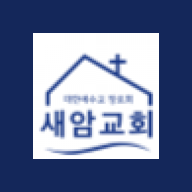
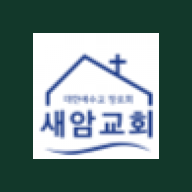
색을 초록 톤으로, 진주빛(펄) 카드와 빛이 스치는 펄 효과

diff --git a/js/app.js b/js/app.js
@@ -44,11 +44,11 @@
         <div class="cap"><span style="display:flex;align-items:center;gap:10px"><img src="images/logo.png" alt="" width="40" height="40" style="border-radius:10px;background:#fff;padding:3px"><span class="serif" style="font-size:24px;font-weight:700">${esc(c.name)}</span></span>
           <span style="font-size:13px;opacity:.9">${esc(c.motto)}</span></div></div>
       <div class="grid4" style="grid-template-columns:repeat(5,minmax(0,1fr));gap:6px">
-        <a class="quick" href="#/worship"><span class="ic">${ico('clock', '#1F3A78', 20)}</span>예배 시간</a>
-        <a class="quick" href="#/worship"><span class="ic">${ico('pin', '#1F3A78', 20)}</span>오시는 길</a>
-        <a class="quick" href="tel:${c.phone.replace(/-/g, '')}"><span class="ic">${ico('phone', '#1F3A78', 20)}</span>전화하기</a>
-        <a class="quick" href="#/give"><span class="ic">${ico('gift', '#1F3A78', 20)}</span>헌금</a>
-        <button class="quick" data-invite style="font-family:inherit"><span class="ic">${ico('share', '#1F3A78', 20)}</span>초대하기</button>
+        <a class="quick" href="#/worship"><span class="ic">${ico('clock', '#1F5A3E', 20)}</span>예배 시간</a>
+        <a class="quick" href="#/worship"><span class="ic">${ico('pin', '#1F5A3E', 20)}</span>오시는 길</a>
+        <a class="quick" href="tel:${c.phone.replace(/-/g, '')}"><span class="ic">${ico('phone', '#1F5A3E', 20)}</span>전화하기</a>
+        <a class="quick" href="#/give"><span class="ic">${ico('gift', '#1F5A3E', 20)}</span>헌금</a>
+        <button class="quick" data-invite style="font-family:inherit"><span class="ic">${ico('share', '#1F5A3E', 20)}</span>초대하기</button>
       </div>
       ${s ? `<section style="display:flex;flex-direction:column;gap:10px">
         <div style="display:flex;justify-content:space-between;align-items:baseline"><h2>이주의 설교</h2><a href="#/sermons" class="muted" style="font-size:13px">지난 설교 ›</a></div>
@@ -61,7 +61,7 @@
           <span style="flex:1;display:flex;flex-direction:column;gap:3px"><span style="font-weight:700;color:var(--navy-deep)">${esc(e.title)}</span><span class="muted" style="font-size:12px;line-height:1.5">${esc(e.desc)}</span></span>${ico('next', '#4A5263', 16)}</a>`).join('')}
       </section>` : ''}
       <a class="card" href="https://saechang888-code.github.io/berith/" target="_blank" rel="noopener" style="display:flex;gap:14px;align-items:center;background:var(--navy-soft);border-color:transparent">
-        ${ico('book', '#1F3A78', 26)}<span style="flex:1;display:flex;flex-direction:column;gap:3px"><span style="font-weight:700;color:var(--navy-deep)">베리트365 — 매일 말씀과 묵상</span><span class="muted" style="font-size:12px">오늘의 말씀 영상 · 성경 · 나의 묵상 기록</span></span>${ico('ext', '#1F3A78', 16)}</a>
+        ${ico('book', '#1F5A3E', 26)}<span style="flex:1;display:flex;flex-direction:column;gap:3px"><span style="font-weight:700;color:var(--navy-deep)">베리트365 — 매일 말씀과 묵상</span><span class="muted" style="font-size:12px">오늘의 말씀 영상 · 성경 · 나의 묵상 기록</span></span>${ico('ext', '#1F5A3E', 16)}</a>
     </main>${tabbar('home')}`;
   }
 
@@ -77,7 +77,7 @@
         <input type="text" id="sq" value="${esc(q)}" placeholder="설교 제목으로 찾기" style="border:0;padding:0;background:none;height:44px"></label>
       <div class="list">${list.map(s => `<a href="#/sermons" data-cur="${esc(s.video)}" data-title="${esc(s.title)}"><img class="thumb" src="${yt(s.video)}" alt="" loading="lazy">
           <span class="grow"><span style="font-weight:700;color:var(--navy-deep);font-size:15px">${esc(s.title)}</span><span class="sub">${dateKo(s.date)} · ${esc(s.preacher)}</span></span></a>`).join('') || '<p class="muted">찾는 설교가 없습니다.</p>'}</div>
-      <a class="btn btn-line" href="https://www.youtube.com/@seamvision" target="_blank" rel="noopener">유튜브에서 모든 영상 보기 ${ico('ext', '#14275A', 16)}</a>
+      <a class="btn btn-line" href="https://www.youtube.com/@seamvision" target="_blank" rel="noopener">유튜브에서 모든 영상 보기 ${ico('ext', '#12382A', 16)}</a>
     </main>${tabbar('sermons')}`;
   }
 
@@ -89,14 +89,14 @@
       <div class="card" style="padding:6px 18px"><div class="list">${c.worship.map(w => `<div class="row"><span class="grow"><span style="font-weight:700;color:var(--navy-deep)">${esc(w.name)}</span>${w.note ? `<span class="sub">${esc(w.note)}</span>` : ''}</span><span class="serif" style="color:var(--gold-text);font-weight:700">${esc(w.time)}</span></div>`).join('')}</div></div>
       <section style="display:flex;flex-direction:column;gap:10px"><h2>온라인으로 함께하기</h2>
         <div class="grid2">
-          <a class="card" href="https://www.youtube.com/@seamvision" target="_blank" rel="noopener" style="display:flex;flex-direction:column;gap:6px">${ico('play', '#1F3A78')}<b style="color:var(--navy-deep)">주일 설교 영상</b><span class="muted" style="font-size:12px">유튜브 [새암교회]비전센터</span></a>
-          <a class="card" href="https://saechang888-code.github.io/berith/" target="_blank" rel="noopener" style="display:flex;flex-direction:column;gap:6px">${ico('book', '#1F3A78')}<b style="color:var(--navy-deep)">베리트365</b><span class="muted" style="font-size:12px">매일 말씀 묵상</span></a>
+          <a class="card" href="https://www.youtube.com/@seamvision" target="_blank" rel="noopener" style="display:flex;flex-direction:column;gap:6px">${ico('play', '#1F5A3E')}<b style="color:var(--navy-deep)">주일 설교 영상</b><span class="muted" style="font-size:12px">유튜브 [새암교회]비전센터</span></a>
+          <a class="card" href="https://saechang888-code.github.io/berith/" target="_blank" rel="noopener" style="display:flex;flex-direction:column;gap:6px">${ico('book', '#1F5A3E')}<b style="color:var(--navy-deep)">베리트365</b><span class="muted" style="font-size:12px">매일 말씀 묵상</span></a>
         </div></section>
       <section style="display:flex;flex-direction:column;gap:10px"><h2>오시는 길</h2>
         <img src="images/vision-center.jpg" alt="새암교회 비전센터 전경" style="border-radius:16px;aspect-ratio:16/9;object-fit:cover;width:100%">
         <div class="card" style="display:flex;flex-direction:column;gap:8px"><span style="font-weight:700;color:var(--navy-deep)">${esc(c.address)}</span><span class="muted" style="font-size:13px">전화 ${esc(c.phone)}</span></div>
         <div class="grid2"><a class="btn btn-navy" href="${esc(c.maps.naver)}" target="_blank" rel="noopener">네이버 지도</a><a class="btn btn-line" href="${esc(c.maps.kakao)}" target="_blank" rel="noopener">카카오맵</a></div>
-        <a class="btn btn-line" href="tel:${c.phone.replace(/-/g, '')}">${ico('phone', '#14275A', 18)}교회로 전화하기</a>
+        <a class="btn btn-line" href="tel:${c.phone.replace(/-/g, '')}">${ico('phone', '#12382A', 18)}교회로 전화하기</a>
       </section>
     </main>${tabbar('worship')}`;
   }
@@ -104,7 +104,7 @@
   // ---------- 헌금 안내 (계좌 이체) ----------
   function offeringCard() {
     const o = D.church && D.church.offering; if (!o) return '';
-    return `<section id="offering" class="card" style="display:flex;flex-direction:column;gap:12px;background:var(--navy-deep);border-color:var(--navy-deep);color:#fff">
+    return `<section id="offering" class="card pearl-dark" style="display:flex;flex-direction:column;gap:12px;color:#fff">
       <span class="eyebrow" style="color:#E9C97A">OFFERING</span>
       <b class="serif" style="font-size:19px">헌금 안내</b>
       <span style="font-size:13px;opacity:.85;line-height:1.6">각각 그 마음에 정한 대로 할 것이요 인색함으로나 억지로 하지 말지니 하나님은 즐겨 내는 자를 사랑하시느니라 (고후 9:7)</span>
@@ -133,7 +133,7 @@
         <span class="muted" style="font-size:12px;line-height:1.6">'교회에 보내기'를 누르면 문자·카카오톡 보내기 창이 열려요. 받는 사람에 교회(${esc(D.church ? D.church.phone : '')})나 담당 사역자를 고르시면 됩니다. 곧 앱 안에서 교회로 바로 전해지도록 바꿀 예정이에요.</span>
       </div>
       ${offeringCard()}
-      <div class="card" style="display:flex;gap:14px;align-items:center">${ico('share', '#1F3A78', 26)}<span style="flex:1;display:flex;flex-direction:column;gap:3px"><b style="color:var(--navy-deep)">친구·가족 초대하기</b><span class="muted" style="font-size:12px">새암교회 앱을 소중한 사람에게 보내 보세요.</span></span><button class="chip on" data-invite>보내기</button></div>
+      <div class="card" style="display:flex;gap:14px;align-items:center">${ico('share', '#1F5A3E', 26)}<span style="flex:1;display:flex;flex-direction:column;gap:3px"><b style="color:var(--navy-deep)">친구·가족 초대하기</b><span class="muted" style="font-size:12px">새암교회 앱을 소중한 사람에게 보내 보세요.</span></span><button class="chip on" data-invite>보내기</button></div>
     </main>${tabbar('together')}`;
   }
 
@@ -142,7 +142,7 @@
     const c = D.church; if (!c) return `<main></main>${tabbar('about')}`;
     return `<main>
       <div style="display:flex;flex-direction:column;gap:4px"><span class="eyebrow">ABOUT</span><h1>교회 소개</h1><span class="muted" style="font-size:13px">${esc(c.denom)} ${esc(c.name)}</span></div>
-      ${c.meaning ? `<section style="display:flex;flex-direction:column;gap:12px;padding:22px 20px;border-radius:20px;background:var(--navy-deep);color:#fff">
+      ${c.meaning ? `<section class="pearl-dark" style="display:flex;flex-direction:column;gap:12px;padding:22px 20px;border-radius:20px;color:#fff">
         <span class="eyebrow" style="color:#E9C97A">OUR NAME</span>
         <span class="serif" style="font-size:22px;font-weight:700;line-height:1.4">SEAM, 새암<br><span style="font-size:15px;font-weight:400;opacity:.85">이름에 담긴 뜻</span></span>
         ${c.meaning.map(m => `<div style="display:flex;flex-direction:column;gap:6px;padding-top:12px;border-top:1px solid rgba(255,255,255,.15)">

diff --git a/css/app.css b/css/app.css
@@ -1,6 +1,6 @@
 :root{
-  --navy:#1F3A78; --navy-deep:#14275A; --navy-soft:#E9EEF8; --gold:#B8862B; --gold-text:#8A6216;
-  --cream:#FBF8F2; --paper:#FFFFFF; --ink:#1E2430; --ink-soft:#4A5263; --line:#E4DFD4;
+  --navy:#1F5A3E; --navy-deep:#12382A; --navy-soft:#E3F0E8; --gold:#B8862B; --gold-text:#8A6216;
+  --cream:#F6F8F3; --paper:#FFFFFF; --ink:#1E2430; --ink-soft:#4A5263; --line:#E4DFD4;
   --serif:'Noto Serif KR',serif; --sans:'Noto Sans KR',sans-serif;
 }
 *{box-sizing:border-box}
@@ -26,11 +26,11 @@ h1{font-size:26px} h2{font-size:19px}
 .video{position:relative;border-radius:16px;overflow:hidden;background:#000;aspect-ratio:16/9}
 .video iframe,.video img{position:absolute;inset:0;width:100%;height:100%;border:0;object-fit:cover}
 .play{position:absolute;inset:0;display:flex;align-items:center;justify-content:center;background:none;border:0}
-.play span{width:58px;height:58px;border-radius:29px;background:rgba(20,39,90,.78);display:flex;align-items:center;justify-content:center}
+.play span{width:58px;height:58px;border-radius:29px;background:rgba(18,56,42,.78);display:flex;align-items:center;justify-content:center}
 .badge{position:absolute;top:10px;left:10px;z-index:1;height:24px;padding:0 10px;border-radius:12px;background:var(--gold-text);color:#fff;font-size:11px;font-weight:700;display:flex;align-items:center}
 .hero{position:relative;margin:-24px -20px 0;height:260px;overflow:hidden;background:var(--navy-deep)}
 .hero>img{width:100%;height:100%;object-fit:cover;opacity:.85}
-.hero::after{content:"";position:absolute;inset:0;background:linear-gradient(180deg,rgba(20,39,90,.15),rgba(20,39,90,.9))}
+.hero::after{content:"";position:absolute;inset:0;background:linear-gradient(180deg,rgba(18,56,42,.15),rgba(18,56,42,.9))}
 .hero .cap{position:absolute;left:22px;right:22px;bottom:20px;z-index:1;color:#fff;display:flex;flex-direction:column;gap:6px}
 .list a,.list .row{display:flex;align-items:center;gap:12px;min-height:60px;padding:8px 0;border-bottom:1px solid var(--line)}
 .list .grow{flex:1;min-width:0;display:flex;flex-direction:column;gap:3px}
@@ -49,3 +49,22 @@ textarea{min-height:120px;resize:vertical;line-height:1.7}
 .toast{position:fixed;left:50%;bottom:96px;transform:translateX(-50%);background:var(--navy-deep);color:#fff;padding:10px 18px;border-radius:20px;font-size:14px;z-index:9;opacity:0;transition:opacity .3s;pointer-events:none}
 .toast.show{opacity:1}
 .sr{position:absolute;width:1px;height:1px;overflow:hidden;clip:rect(0 0 0 0)}
+
+/* 펄(진주빛) — 밝은 면은 은은한 진주빛, 어두운 면은 짙은 초록 위에 빛이 스치는 펄 */
+:root{
+  --pearl:linear-gradient(135deg,#FFFFFF 0%,#F1F8F3 30%,#F5F1F8 55%,#EEF7F2 78%,#FFFFFF 100%);
+  --pearl-dark:linear-gradient(135deg,#0F3324 0%,#1F5A3E 45%,#2E7656 70%,#16432F 100%);
+}
+body,.app{background:linear-gradient(180deg,#F8FAF6 0%,#F1F6F1 100%)}
+.card,.quick,.chip:not(.on),.btn-line,.tabbar{background:var(--pearl);background-color:#FBFCFA}
+.card,.quick{box-shadow:0 1px 0 rgba(255,255,255,.9) inset,0 6px 18px rgba(18,56,42,.07)}
+.btn-navy,.chip.on{background:var(--pearl-dark);border-color:transparent}
+.pearl-dark{position:relative;overflow:hidden;background:var(--pearl-dark)!important;border-color:transparent!important}
+.pearl-dark::before,.hero::before{content:"";position:absolute;inset:0;pointer-events:none;z-index:1;
+  background:linear-gradient(115deg,transparent 35%,rgba(255,255,255,.16) 45%,rgba(230,255,240,.22) 50%,rgba(255,240,255,.14) 55%,transparent 65%);
+  background-size:250% 100%;animation:pearl 7s ease-in-out infinite}
+.pearl-dark>*{position:relative;z-index:2}
+@keyframes pearl{0%{background-position:120% 0}60%,100%{background-position:-60% 0}}
+@media (prefers-reduced-motion:reduce){.pearl-dark::before,.hero::before{animation:none}}
+.hero::after{background:linear-gradient(180deg,rgba(18,56,42,.1),rgba(15,51,36,.92))}
+.hero .cap{z-index:2}

diff --git a/index.html b/index.html
@@ -3,7 +3,7 @@
 <head>
 <meta charset="utf-8">
 <meta name="viewport" content="width=device-width, initial-scale=1, viewport-fit=cover">
-<meta name="theme-color" content="#14275A">
+<meta name="theme-color" content="#12382A">
 <meta name="description" content="새암교회(대한예수교장로회 합동, 용인 수지 동천동) 앱 — 주일 설교, 예배 안내, 교회 소식, 기도 요청.">
 <meta property="og:title" content="새암교회">
 <meta property="og:description" content="하나님과 나를, 세상과 교회를 이어 주는 축복의 고리">

diff --git a/sw.js b/sw.js
@@ -1,5 +1,5 @@
 // 앱 껍데기를 기기에 저장해 두어 인터넷이 끊겨도 열리게 한다 (늘 인터넷의 새것을 먼저 받는다)
-const CACHE = 'seam-v4';
+const CACHE = 'seam-v5';
 const SHELL = ['./', 'index.html', 'css/app.css', 'js/app.js', 'manifest.webmanifest', 'images/logo.png', 'images/hero.jpg', 'images/icon-192.png'];
 self.addEventListener('install', e => { e.waitUntil(caches.open(CACHE).then(c => c.addAll(SHELL))); self.skipWaiting(); });
 self.addEventListener('activate', e => {
